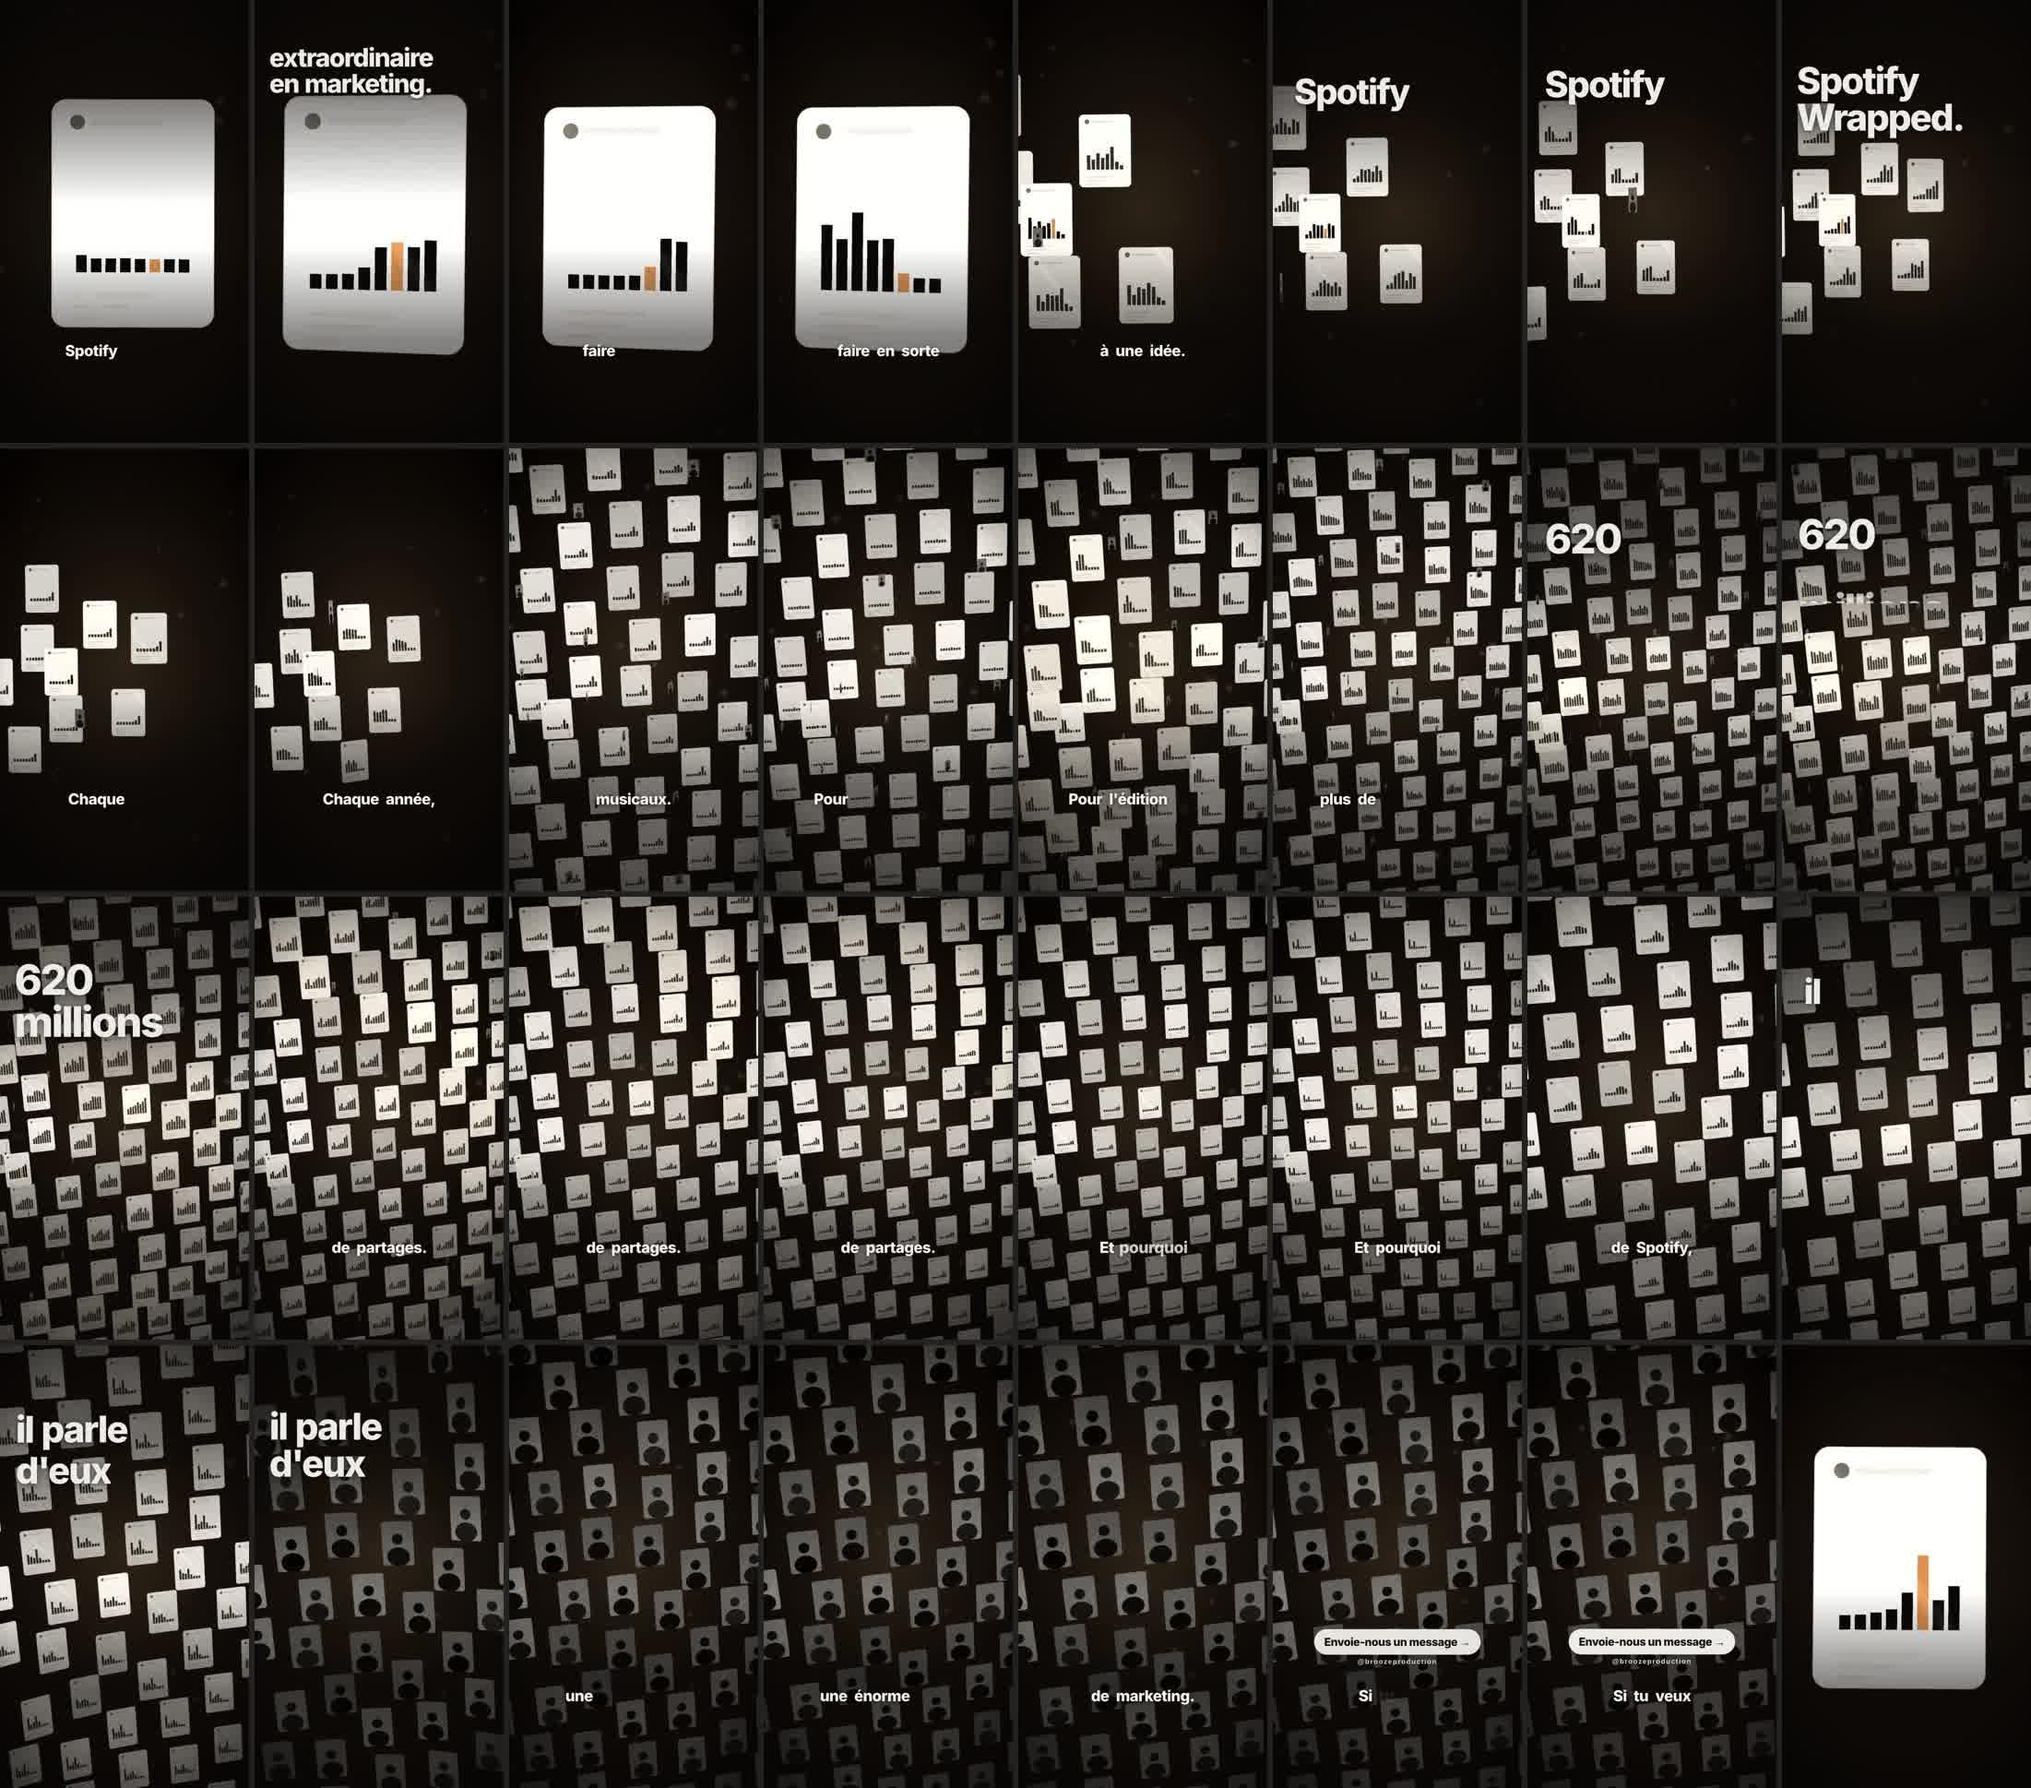
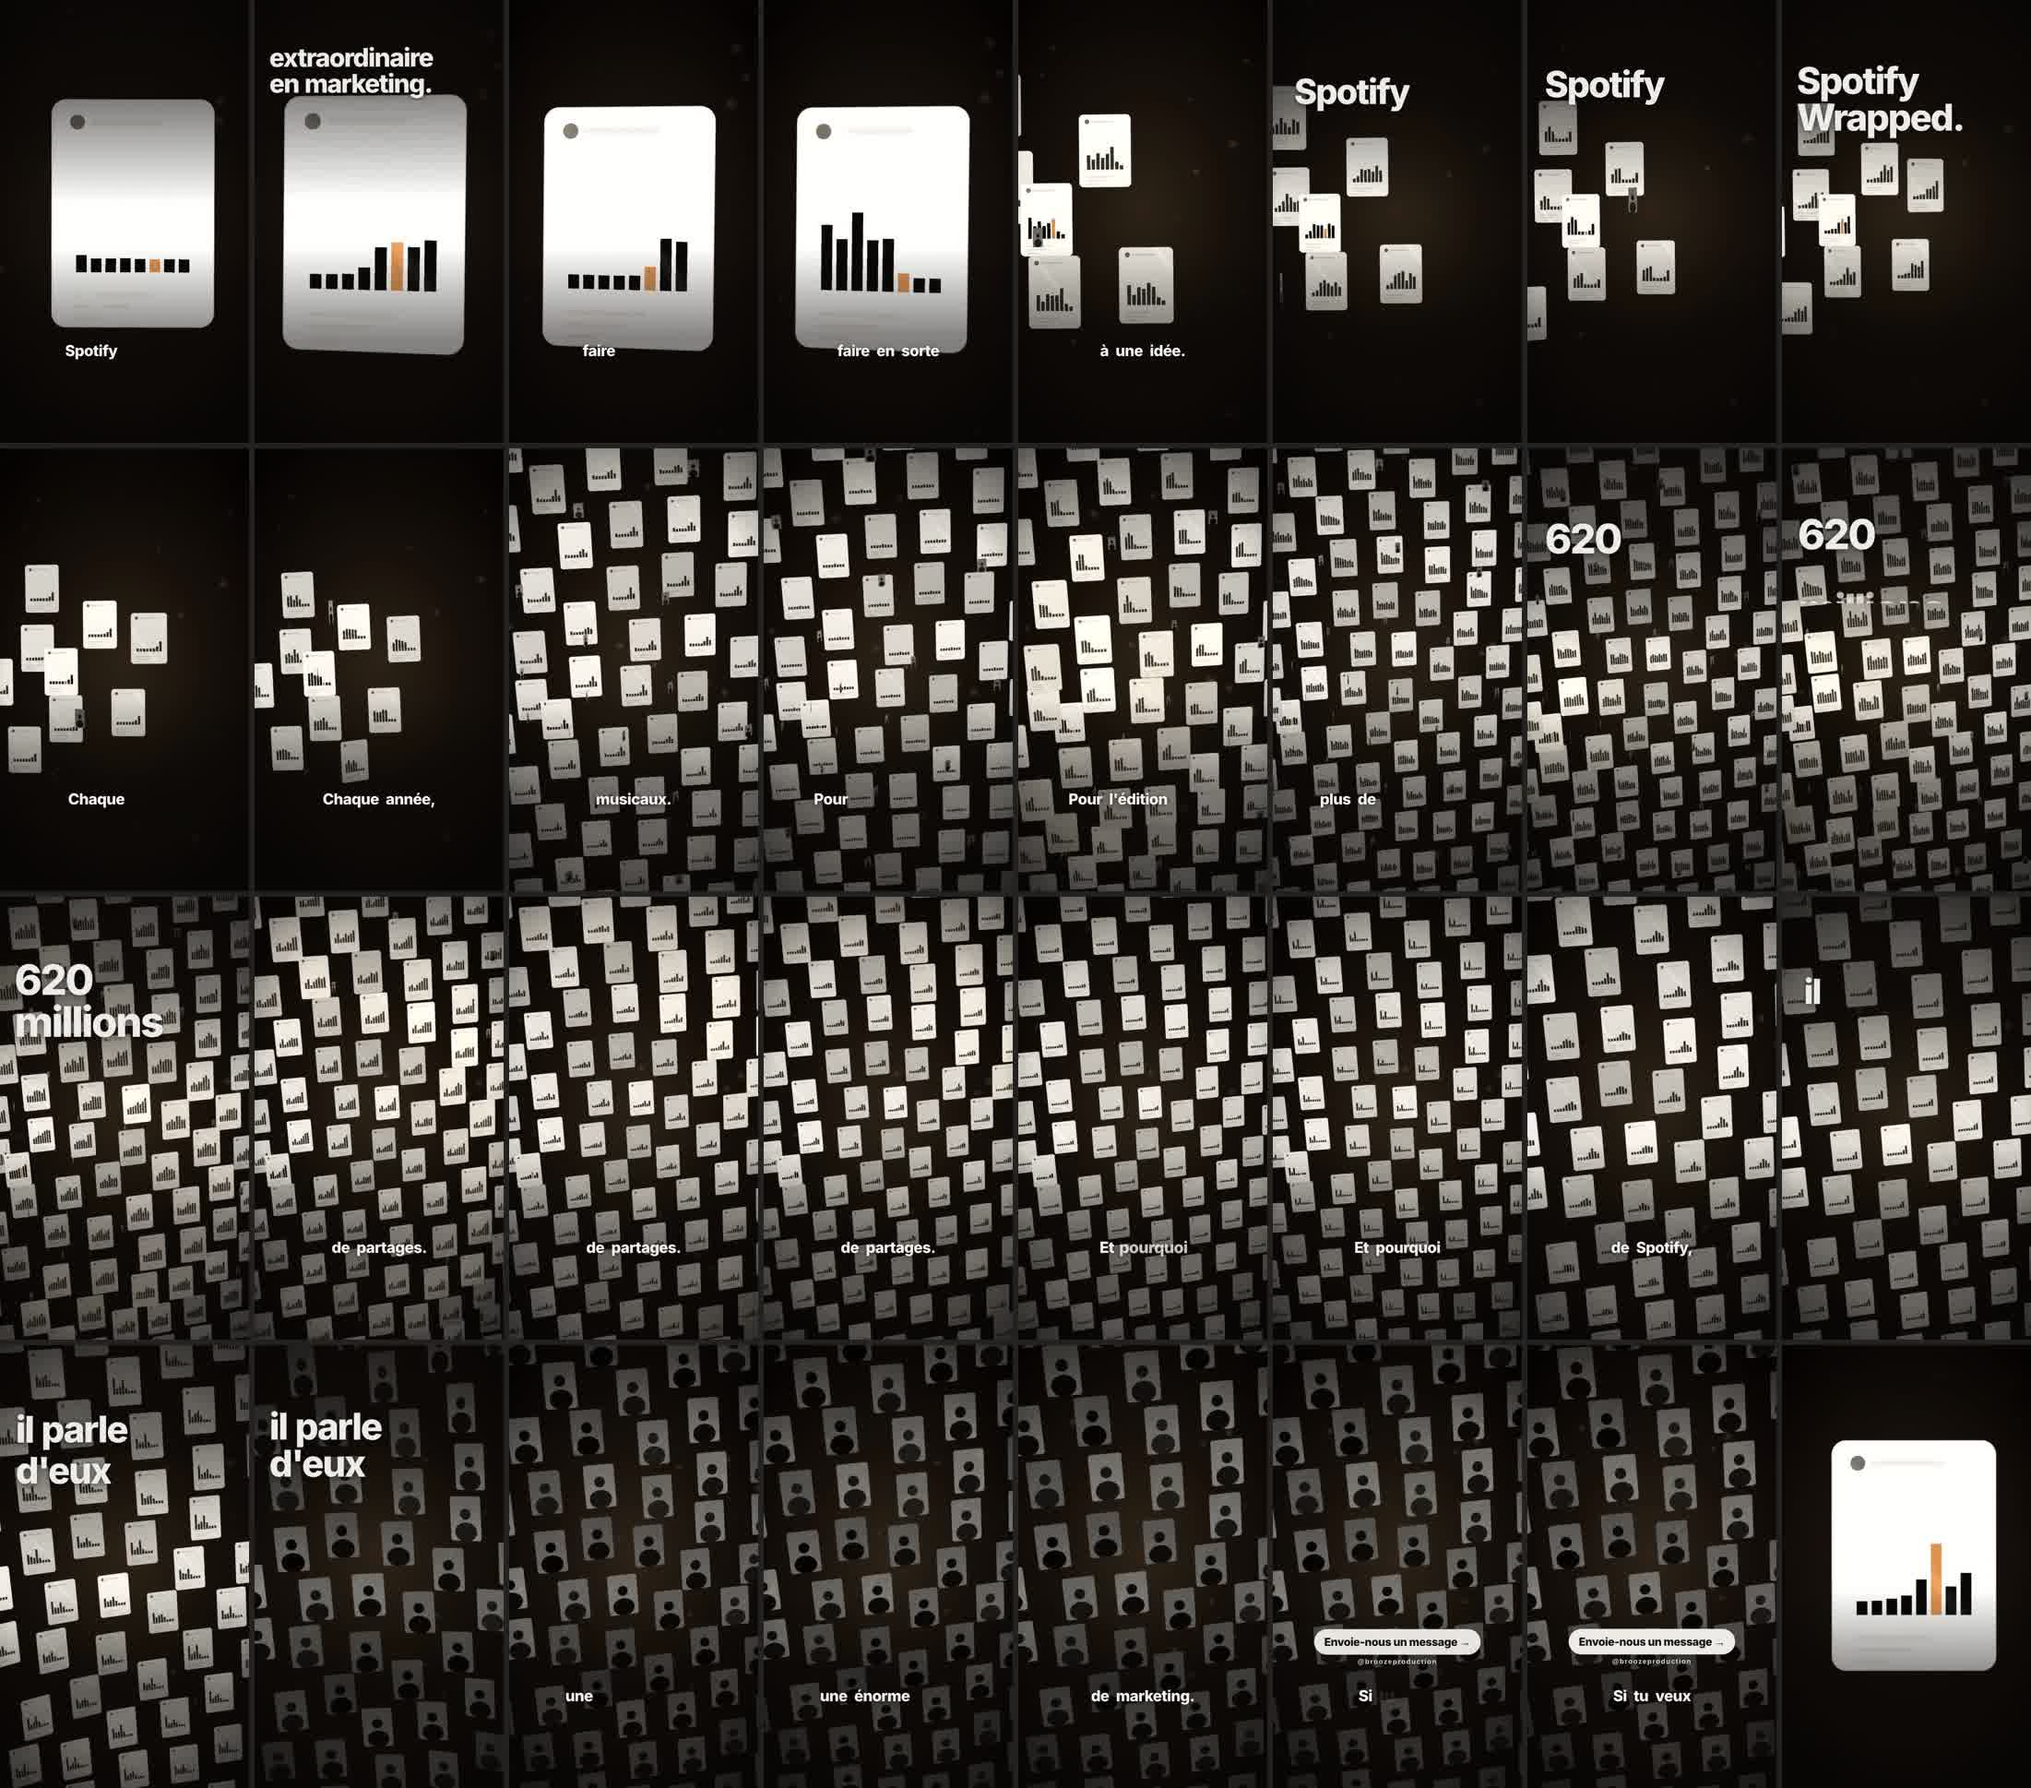
Spotify v2 : rapport du sceptique (passe ennui), titre dans la zone sûre
Claude-Session: https://claude.ai/code/session_01AdSeFqikVTnEaH1LavGi44

Changed region(s): [[0.8647, 0.805, 0.9882, 0.9598]]

diff --git a/sorties/2026-10-24-spotify-wrapped/sceptique_v2.md b/sorties/2026-10-24-spotify-wrapped/sceptique_v2.md
@@ -1,0 +1,37 @@
+# Sceptique — Reel Spotify v2 (reprise du 23/10, demande de Zak)
+
+Outils : controle.py (avec engagement.py), inspecter.py du skill, planches de contrôle, jonction fin → début, courbe
+d'énergie. Version 1 (programmée) comparée : un seul plan large de 12 à 40 s, carton de fin, son éteint.
+
+## Les 4 regards
+1. **Hater « c'est de l'IA »** : rien d'évident. Le champ 3D est propre (pas de moiré depuis la v1), les cartes sont
+   vraies (même mise en page, ombres, reflets), la caméra bouge avec un poids physique (ressort amorti).
+2. **Hater « template CapCut »** : aucune transition gadget, une seule idée de monde tenue de bout en bout. Les
+   titres sont courts et arrivent mot par mot sur la voix.
+3. **Pro du montage** : relances toutes les 1,3 à 3,3 s, alternées (panoramique, poussée, visée, inclinaison, recul,
+   roulis), plus 6 vagues de cartes et le retournement. Plus de « mur » immobile de 12 à 40 s. Profondeur : poussières
+   au premier plan, champ, carte héros.
+4. **Cible (Claire, communication)** : l'idée se lit sans le son (titres : extraordinaire en marketing, Spotify
+   Wrapped, 620 millions, il parle d'eux) ; le CTA arrive en surimpression pendant « Si tu veux créer du contenu… ».
+
+## Passe « ennui » (trois visionnages d'affilée)
+| Temps | Ce qui se passe | Attention | Décision |
+|---|---|---|---|
+| 0–0,5 s | carte seule, barres plates, la caméra bouge déjà | OK (ouverture vivante, mesurée) | — |
+| 2,5–4 s | titre blanc sur la carte blanche (v2 brouillon) | **baisse : illisible** | corrigé : 1re relance = panoramique, titre au-dessus de la carte, poussée après le titre |
+| 13–27 s | v2 brouillon : « Spotify Wrapped » restait 13 s | **baisse : le titre s'use** | corrigé : chaque titre s'efface après son temps de lecture |
+| 41–43 s | après le retournement, avant la plongée (« énorme leçon de marketing ») | légère baisse (énergie minimale 0,7) | acceptée : c'est la respiration voulue avant le dernier mouvement |
+| 42,9–46,2 s | plongée continue + CTA | 3,3 s sans relance « franche » | acceptée : le mouvement est continu et le CTA arrive à 43 s ; un coup de zoom ajouté à 44,7 s |
+| 48,8 → 0 s | jonction de boucle | **invisible** : même carte, même taille, même position (au pixel), couleurs 0,16, son continu (−21,5 dB à la fin au lieu de −180) | — |
+| boucle | barres de la carte un peu plus hautes à la fin qu'au début | P3 (détail) | gardé : elles suivent la voix, c'est le clin d'œil |
+
+## Défauts trouvés et corrigés pendant la reprise
+- P1 : titre illisible à 2,8 s (blanc sur blanc) → corrigé.
+- P1 : bords noirs passagers (caméra à l'épaule du moteur) → corrigé dans le moteur pour tous les Reels (zoom de couverture).
+- P2 : titres trop longs à l'écran → corrigé. P2 : décalage de 60 px de la carte entre fin et début → corrigé (caméra et flottement qui bouclent).
+- Fausse alerte du contrôle « bord découvert » sur scène sombre → contrôle corrigé (il attrape toujours les vrais défauts).
+
+## À justifier (journal)
+4 gros titres (2–3 mots chacun) ; 48,8 s (propos complet de Zak, aucune coupe ne garde le sens exact).
+
+**Verdict : publiable.** Plus de P1 ni de P2.
